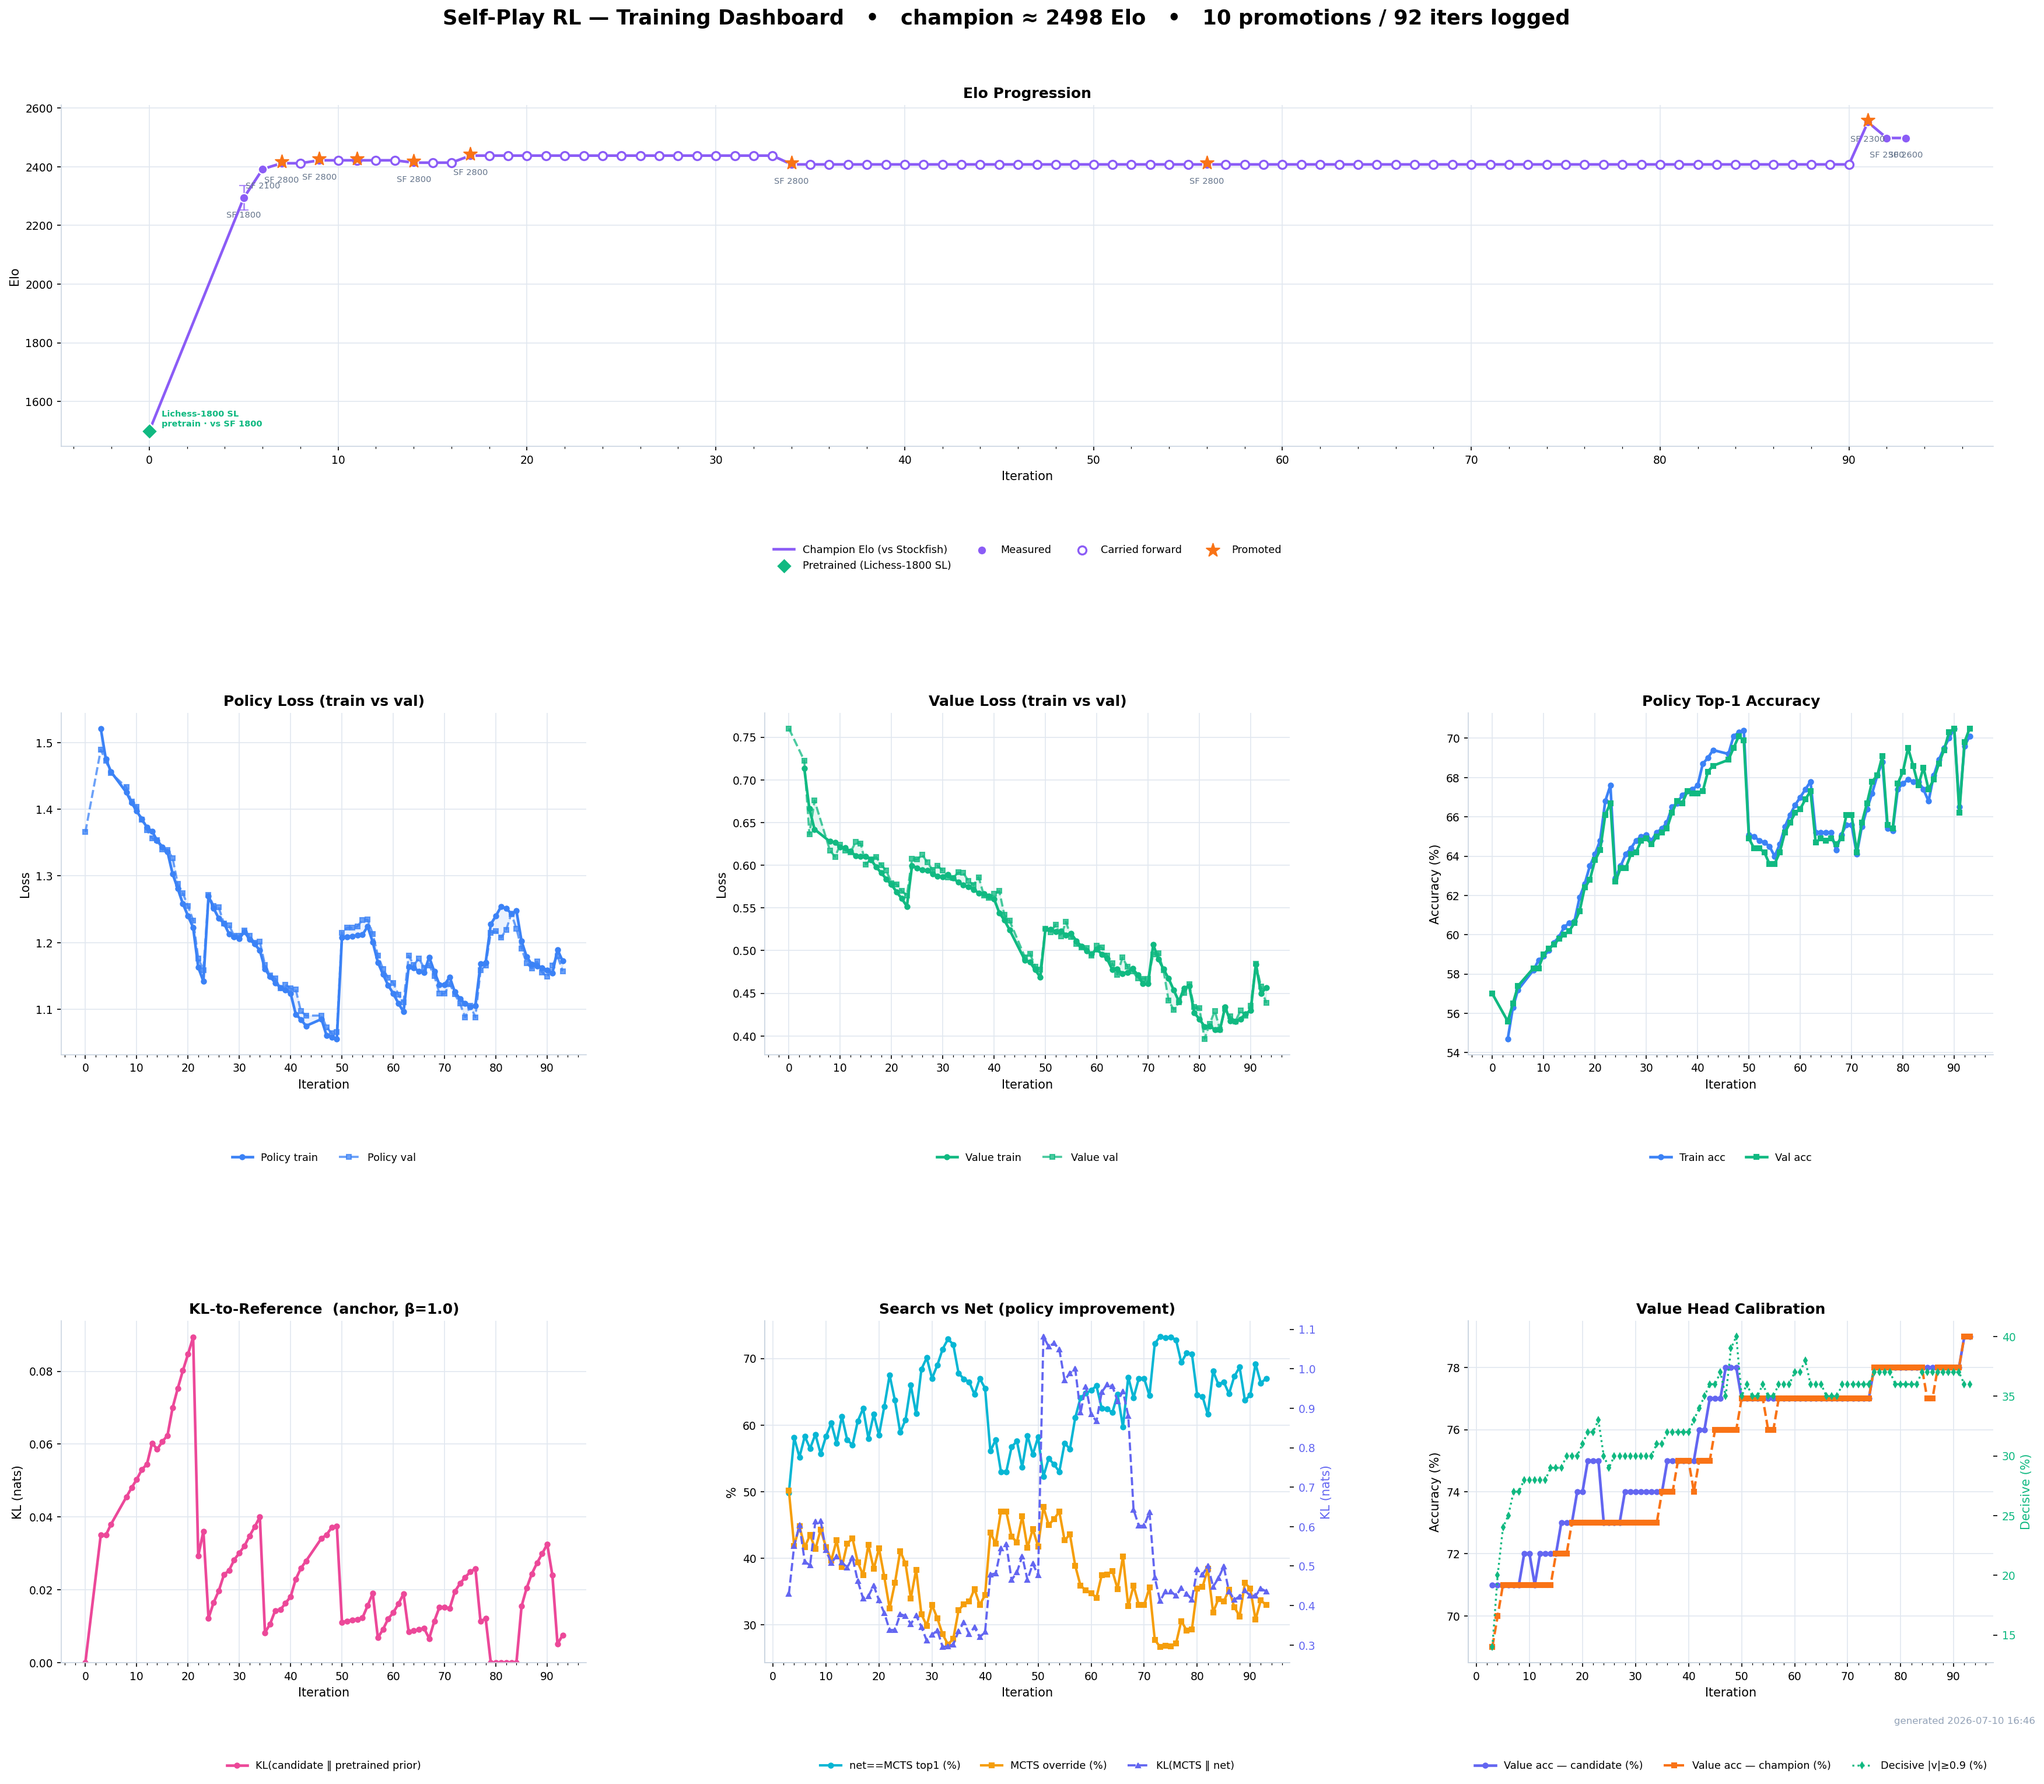
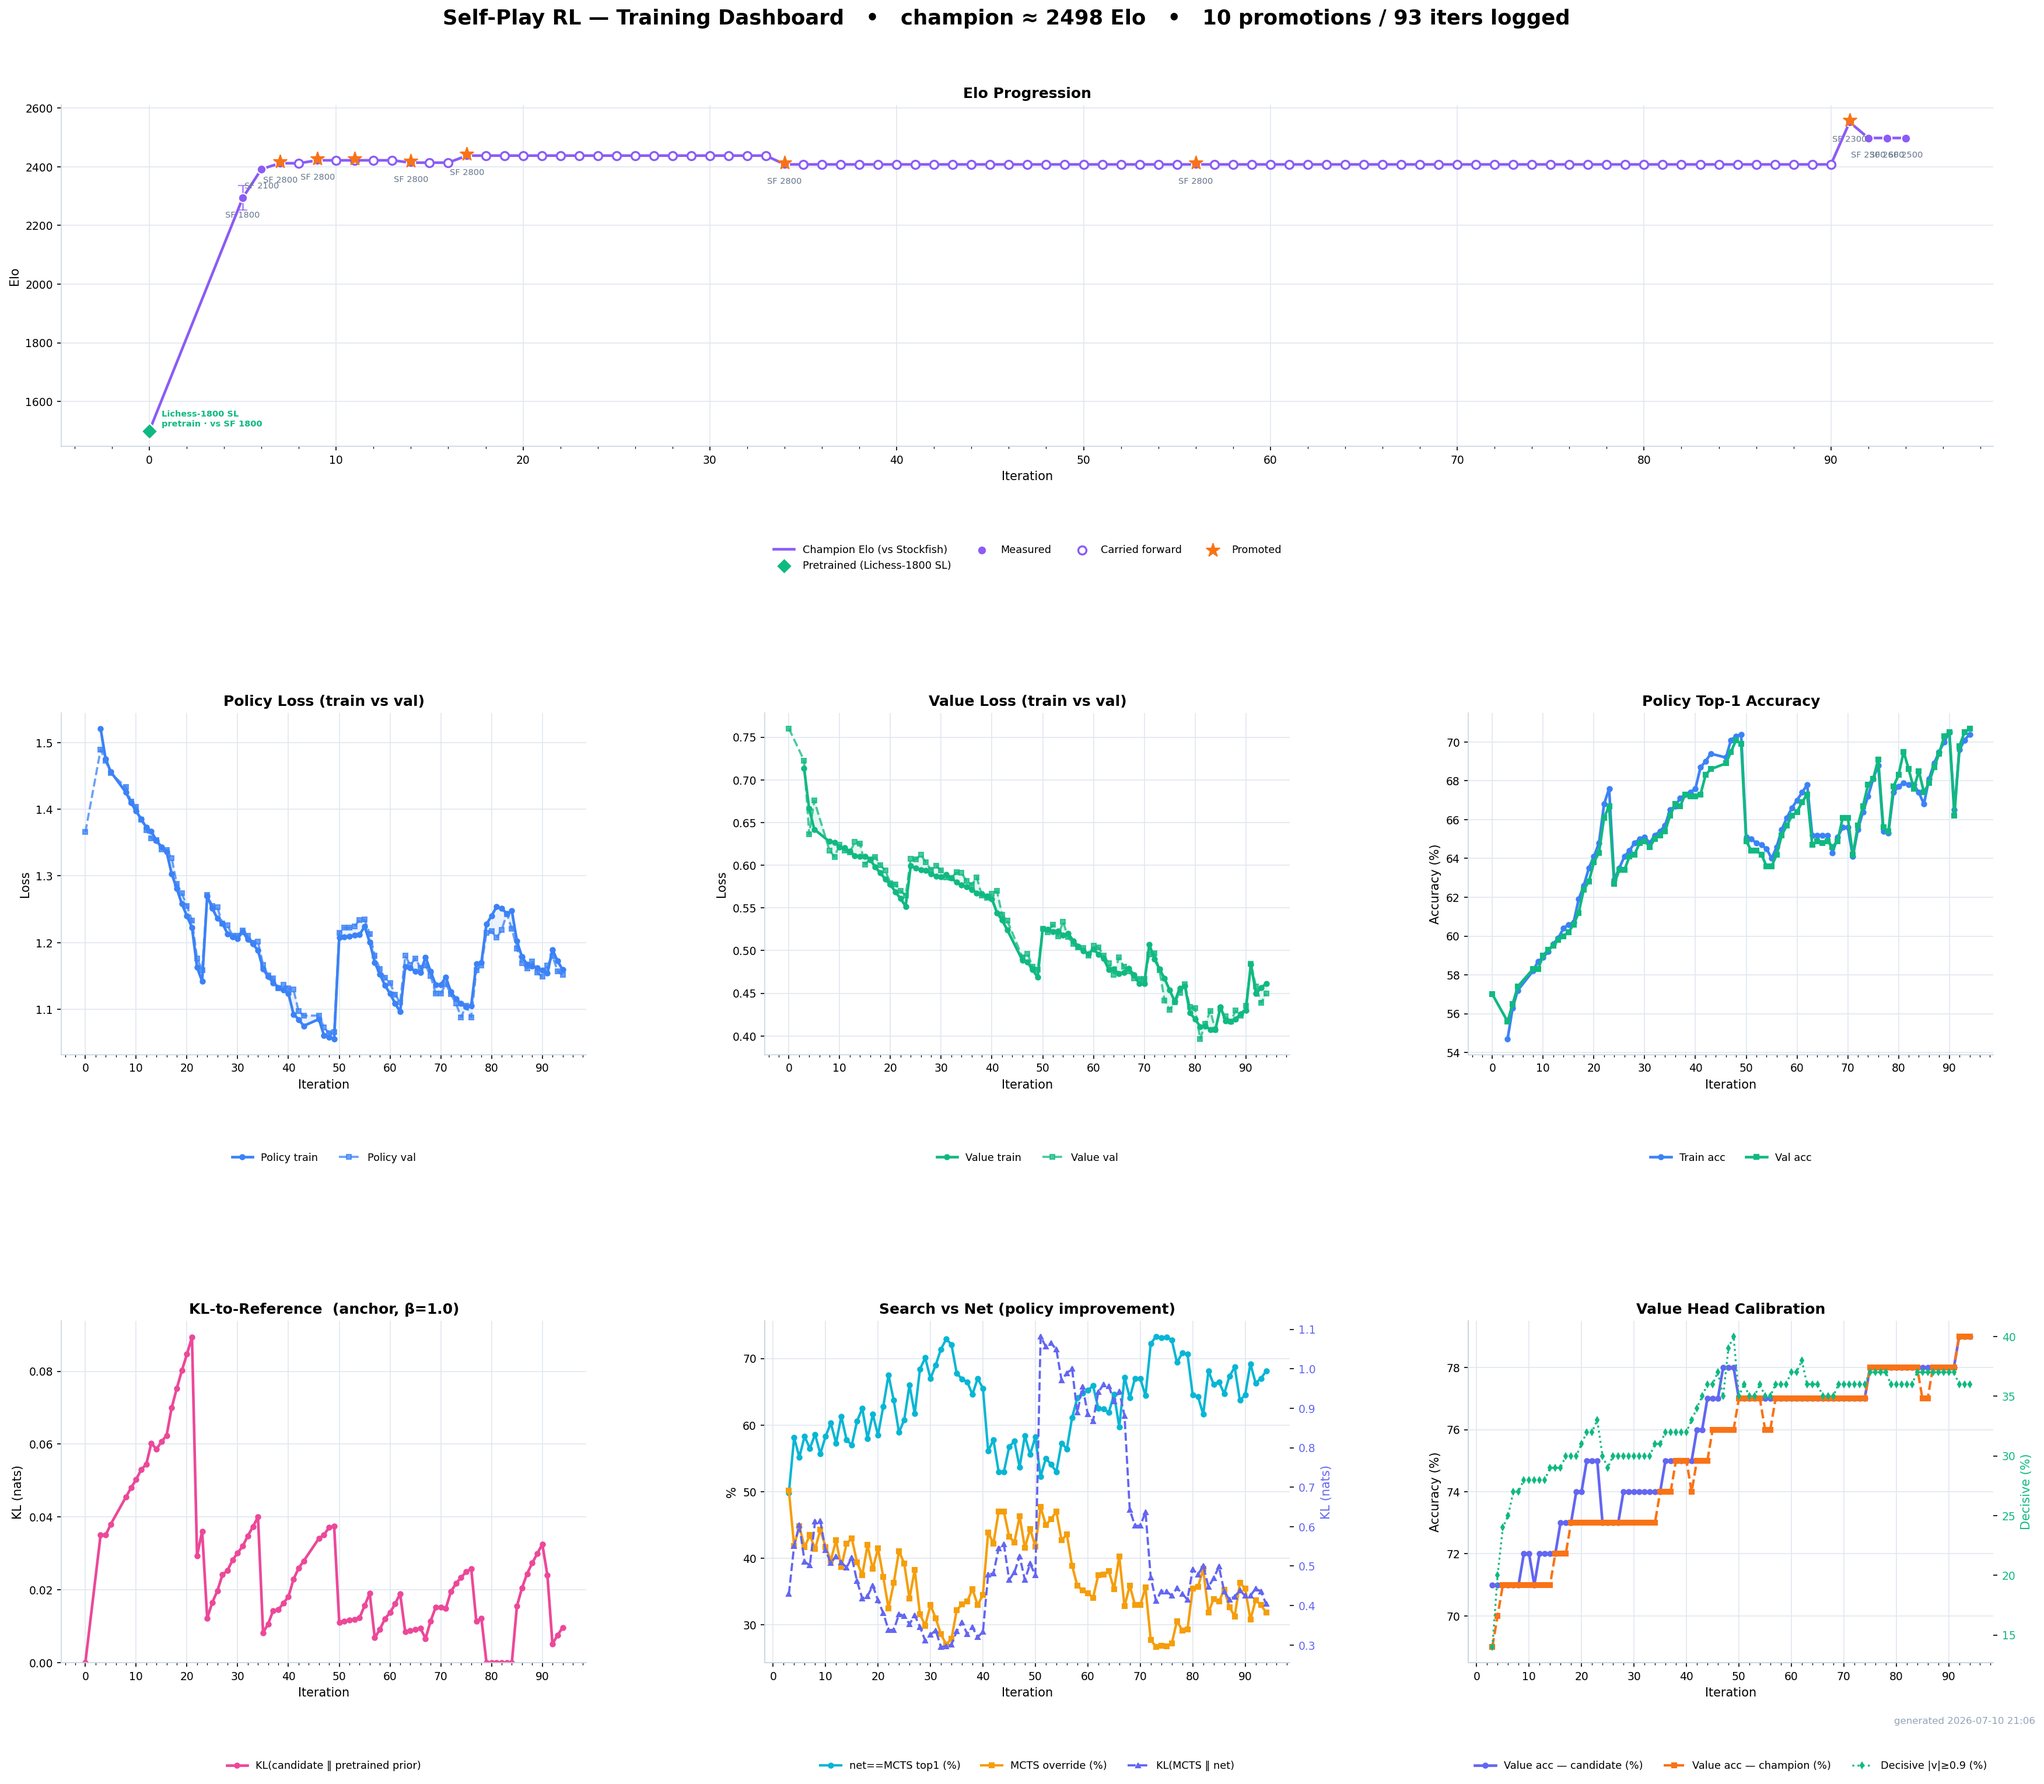
Plots update

diff --git a/chess_ai/game_engine/main.py b/chess_ai/game_engine/main.py
@@ -1420,9 +1420,12 @@ def _sf_eval(model_path, iteration, tag, num_games=None):
 
 def _champ_sf_score(iteration):
     """Champion's Stockfish score, CACHED across iters — the champion (best_model.pth) is frozen between
-    promotions, so re-measuring it every iter just re-samples noise. Re-measures ONLY when best_model.pth
-    changed (mtime differs, incl. a manual cp promotion) or the cache is missing, at 2×STOCKFISH_GAMES for
-    a tight, unbiased baseline. Returns (win_rate, elo). Cache: model/champ_sf.json."""
+    promotions, so re-measuring it every iter just re-samples noise. Re-measures when best_model.pth
+    changed (mtime differs, incl. a manual cp promotion), when the STOCKFISH_ELO anchor changed (a score
+    measured vs a DIFFERENT Stockfish is not comparable to the candidate's — this is what silently broke
+    the gate when the anchor was raised 2300→2500), or when the cache is missing. Measured at the SAME
+    game count as the candidate (STOCKFISH_GAMES) so champ and cand are scored identically. Returns
+    (win_rate, elo). Cache: model/champ_sf.json."""
     try:
         mtime = os.path.getmtime(BEST_MODEL)
     except OSError:
@@ -1430,16 +1433,18 @@ def _champ_sf_score(iteration):
     if os.path.exists(CHAMP_SF_CACHE):
         try:
             c = json.load(open(CHAMP_SF_CACHE))
-            if c.get("wr") is not None and abs(c.get("mtime", -1.0) - mtime) < 1e-6:
-                print(f" [SF-gate] champ: {c['wr']*100:5.1f}%  Elo {c.get('elo')}  (cached — best_model unchanged)")
+            if (c.get("wr") is not None and abs(c.get("mtime", -1.0) - mtime) < 1e-6
+                    and c.get("sf_elo") == STOCKFISH_ELO):
+                print(f" [SF-gate] champ: {c['wr']*100:5.1f}%  Elo {c.get('elo')}  "
+                      f"(cached — best_model & SF-{STOCKFISH_ELO} unchanged)")
                 return c["wr"], c.get("elo")
         except Exception:
             pass
-    wr, elo, _ = _sf_eval(BEST_MODEL, iteration, "champ", num_games=2 * STOCKFISH_GAMES)
+    wr, elo, _ = _sf_eval(BEST_MODEL, iteration, "champ")   # same game count as the candidate
     if wr is not None:
         try:
-            json.dump({"wr": wr, "elo": elo, "mtime": mtime, "games": 2 * STOCKFISH_GAMES},
-                      open(CHAMP_SF_CACHE, "w"))
+            json.dump({"wr": wr, "elo": elo, "mtime": mtime, "sf_elo": STOCKFISH_ELO,
+                       "games": STOCKFISH_GAMES}, open(CHAMP_SF_CACHE, "w"))
         except Exception:
             pass
     return wr, elo
@@ -1473,23 +1478,36 @@ def run_evaluation_phase(iteration, logger, p_loss, v_loss, train_metrics=None):
 
     # 2. PROMOTION GATE.
     if sf_gate:
-        # GROUND-TRUTH gate: promote iff the candidate scores >= the champion vs a NEUTRAL Stockfish
-        # opponent. Ties promote (keep the generator moving with a >=-strength net). The champion score
-        # is CACHED (frozen between promotions) so most iters pay only for the candidate's match.
+        # GROUND-TRUTH gate: promote iff the candidate is >= the champion in ANCHORED Elo vs a neutral
+        # Stockfish. We gate on Elo (not raw win rate) because the SF anchor is RAISED as the net gets
+        # stronger — a WR vs SF-2500 is not comparable to a WR vs SF-2300, but the BayesElo-anchored
+        # Elo is. (This is what silently broke the gate: the champ was cached at 2300 while the cand ran
+        # at 2500, so raw-WR falsely rejected a stronger candidate.) champ is re-measured whenever the
+        # anchor changes, so both sides are always scored at the SAME SF. Ties promote.
         print(f" [SF-gate] gating vs SF-{STOCKFISH_ELO}: candidate ({STOCKFISH_GAMES} games) vs cached champion baseline")
         cleanup_memory()
-        champ_wr, champ_elo = _champ_sf_score(iteration)   # re-measures only when best_model changed
+        champ_wr, champ_elo = _champ_sf_score(iteration)   # re-measures on best_model OR anchor change
         cleanup_memory()
         cand_wr, cand_elo, _ = _sf_eval(CANDIDATE_MODEL, iteration, "cand")
         if champ_wr is None or cand_wr is None:
             print(" [SF-gate] ⚠ a Stockfish match failed — NO promotion this iter (safe default).")
             est_elo = champ_elo
-        elif cand_wr >= champ_wr:
-            print(f" [SF-gate] ⭐ PROMOTED — cand {cand_wr*100:.1f}% >= champ {champ_wr*100:.1f}% vs SF ⭐")
-            _promote_best()
-            est_elo = cand_elo   # the candidate is now the champion
+            promote = False
+        elif cand_elo is not None and champ_elo is not None:
+            promote = cand_elo >= champ_elo   # anchored-Elo gate (primary)
+            verb = "⭐ PROMOTED" if promote else "rejected"
+            print(f" [SF-gate] {verb} — cand Elo {cand_elo:.0f} {'>=' if promote else '<'} champ Elo "
+                  f"{champ_elo:.0f}  (WR {cand_wr*100:.1f}% vs {champ_wr*100:.1f}%)")
         else:
-            print(f" [SF-gate] rejected — cand {cand_wr*100:.1f}% < champ {champ_wr*100:.1f}% vs SF.")
+            # A 0%/100% sweep left one Elo unbounded (None). Both sides are at the SAME anchor, so raw WR
+            # is a valid tiebreak here (e.g. cand swept 100% → clearly promote & time to raise the anchor).
+            promote = cand_wr >= champ_wr
+            print(f" [SF-gate] {'⭐ PROMOTED' if promote else 'rejected'} (Elo unbounded — sweep) — "
+                  f"cand {cand_wr*100:.1f}% {'>=' if promote else '<'} champ {champ_wr*100:.1f}% vs SF")
+        if promote:
+            _promote_best()
+            est_elo = cand_elo if cand_elo is not None else champ_elo   # candidate is now the champion
+        elif champ_wr is not None:
             est_elo = champ_elo
     elif win_rate >= PROMOTION_WIN_RATE:
         print(f" [Arena] ⭐ Candidate PROMOTED! (WR >= {100*PROMOTION_WIN_RATE:.0f}%) ⭐")

diff --git a/chess_ai/plot_metrics.py b/chess_ai/plot_metrics.py
@@ -45,6 +45,10 @@ OUTPUT_DIR = os.path.join(HERE, "game_engine", "evaluation", "plots")
 # old 0.50-0.55 rejections as promotions (dishonest). GATE_HISTORY = (first_iter, gate), ascending.
 # Adjust the 89 boundary if the box picked up the new config at a different iteration.
 GATE_HISTORY = [(0, 0.55), (89, 0.50)]
+# Iteration at which the Stockfish gate switched from raw-WR to anchored-Elo comparison (the SF anchor
+# is raised as the net strengthens, so WRs vs different SF levels aren't comparable — Elo is). Adjust if
+# the box picked up the new gate at a different iteration than the restart-targeted 95.
+SF_ELO_GATE_FROM = 95
 
 
 def gate_for(iteration):
@@ -173,12 +177,18 @@ def parse(history):
     it = np.array([h["iteration"] for h in history])
 
     def _promoted(h):
-        # Under the Stockfish-anchored gate (iter-92+), promotion = cand >= champ vs Stockfish, NOT the
-        # arena WR. Prefer the sf_gate_* markers when present; fall back to the legacy arena-WR gate.
+        # Stockfish-anchored gate. The comparison metric evolved: iters 92-94 gated on raw WR
+        # (cand_wr >= champ_wr); from SF_ELO_GATE_FROM the gate switched to ANCHORED Elo
+        # (cand_elo >= champ_elo) because the SF anchor is raised as the net strengthens and WRs
+        # across different anchors aren't comparable. Mirror that history so old stars stay accurate.
+        it = h["iteration"]
+        ce, he = h.get("sf_gate_cand_elo"), h.get("sf_gate_champ_elo")
         cw, hw = h.get("sf_gate_cand_wr"), h.get("sf_gate_champ_wr")
+        if it >= SF_ELO_GATE_FROM and ce is not None and he is not None:
+            return ce >= he
         if cw is not None and hw is not None:
             return cw >= hw
-        return h.get("arena_win_rate", 0.0) >= gate_for(h["iteration"])
+        return h.get("arena_win_rate", 0.0) >= gate_for(it)
     promoted = np.array([_promoted(h) for h in history])
     return {
         "it": it,
